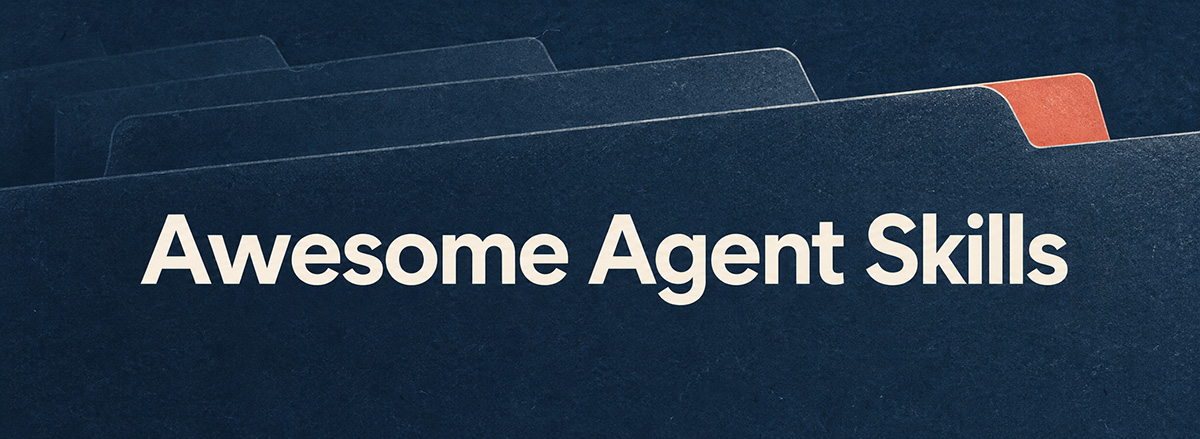
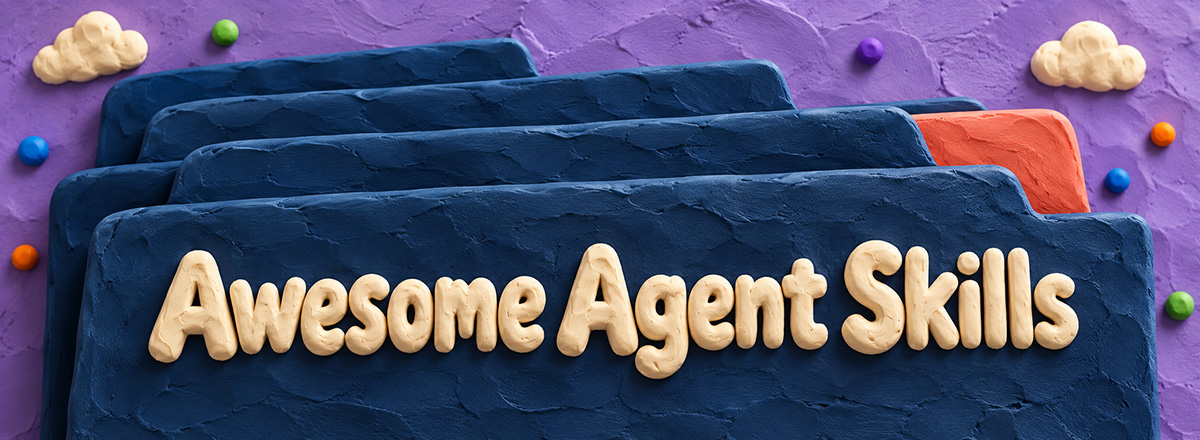
Add Blind as a regular-form platform

diff --git a/skills/awesome-content-campaign/references/platforms.md b/skills/awesome-content-campaign/references/platforms.md
@@ -17,6 +17,7 @@ Every platform on the list is reached as a website in a logged-in browser — `a
 | `linkedin` | linkedin.com | — | optional | horizontal | `genre-micro-post.md` |
 | `reddit` | reddit.com | subreddit | optional | vertical | `genre-community-post.md` |
 | `lemmy` | any Lemmy instance | instance domain + community | optional | vertical | `genre-community-post.md` |
+| `blind` | teamblind.com | channel, picked from the composer's list (the account's followed channels) | optional | horizontal | `genre-community-post.md` |
 | `quora` | quora.com | defaults to a personal post from the home composer (`Post`, audience `Everyone`); ask only when the user names a Space | optional | horizontal | `genre-community-post.md` |
 | `tumblr` | tumblr.com | — | optional | horizontal | `genre-micro-post.md` |
 | `mastodon` | any Mastodon instance | instance domain | optional | horizontal | `genre-micro-post.md` |
@@ -71,6 +72,7 @@ The vertical picture holds the whole source in a band across its middle, so a pl
 | `linkedin` | horizontal | up to 4:5 tall and 3:1 wide, so either file fits; the 16:9 one is the owner's call, since the 4:5 crop of the vertical file shows the blurred fill and pushes the text below the fold | owner's decision, 2026-09 | decided |
 | `reddit` | vertical | no enforced ratio; preview boxes between 4:3 and 16:9 keep the band; guides split | size guides only | low |
 | `lemmy` | vertical | list view shows a near-square generated thumbnail | join-lemmy.org release notes | low |
+| `blind` | horizontal | no published spec; the composer previews an upload as a landscape thumbnail | none | low |
 | `quora` | horizontal | scales to the reading column, no forced crop | size guides only | low |
 | `tumblr` | horizontal | fixed-width dashboard column, tall images shown in full, so the vertical file shows its blurred fill top and bottom | the account's own post, 2026-09 | measured |
 | `mastodon` | horizontal | 16:9 is the preview box many clients and instances still crop to | docs.joinmastodon.org/user/posting | medium |
@@ -153,6 +155,7 @@ Tag count is a platform property, not an author preference. The same tag block t
 | `hashnode`, `medium`, `hackernoon`, `substack` | up to 5 | the platform's own tag/topic field | Medium's publish panel states the five-topic cap in the UI. A body tag line is not the mechanism on any of them. |
 | `peerlist` | none — refused | — | The composer says so in words: *"We don't support hashtags (yet)."* A tag line must be dropped before submitting. |
 | `reddit`, `lemmy`, `hackernews` | none | — | No hashtag system at all. Flair (reddit) and the title do this job; a tag block marks the post as imported spam. |
+| `blind` | 2–4 | body, last line | Clickable: each `#tag` in a body links to `teamblind.com/search/<tag>`, and posts read on 2026-09-30 end on two to four of them. |
 | `quora` | none | — | Topics attach to questions, not to posts, and the composer offers no tag field. A post is filed by the profile or the Space it went to. |
 | `wonderful-dev`, `daily-dev` | none | — | Measured on published posts: body hashtags render as plain text with zero anchors on either platform, so a tag line indexes nothing and reads as an import. |
 | `ko-fi`, `buymeacoffee`, `patreon` | 0–3 | the platform's own field | Each has one and the body has no tag line: ko-fi a comma-separated `Tags` row in the blog editor's sidebar, buymeacoffee a `Categories` block in the right rail, patreon `Add tags` beside the editor. Audience is existing supporters rather than search, so the count stays low. |
@@ -193,6 +196,11 @@ Document posts, a PDF shown as swipeable pages, are LinkedIn's carousel; in Buff
 Title + body, markdown supported, no hashtags. Everything is per-subreddit: rules, flair (sometimes mandatory), automod filters, self-promotion limits (many subs enforce participation ratios). Marketing register is punished by design — posts must lead with value and disclose affiliation. Target detail required: subreddit; fetch and read its rules before writing.
 
 Reddit refuses the agent's fetcher outright, on `www.reddit.com` and `old.reddit.com` alike, including the `about/rules.json` endpoint; retrying the URL or a mirror host does not change that. The rules are read through the user's own logged-in browser (the publisher's browser bridge) or the user confirms them; the run never records "rules read" on the strength of a fetch. Lemmy is the opposite case: its instance API answers plain fetches, and the community search and `community?name=` endpoints return the sidebar, the rules and the subscriber and post counts.
+
+### blind
+Anonymous professional network (Blind, `teamblind.com`): verified employees post under a company label and a username, mostly about careers, pay, layoffs and the tech industry, in public channels. The audience is large and US-centred, and it reads anything that looks like marketing as an intrusion, so the post leads with the useful part and the link is a reference at the end. The composer is a page, not a dialog (`teamblind.com/post/write`): a channel, a title of up to 120 characters, and a plain-text body. Bare URLs become links and `#tags` link to search; no markdown renders. Target detail required: the channel, which the composer chooses from the account's own channel list. Each channel's placeholder states its rule, for example `Information Technology Career`: *"Keep it relevant. If the community flags your posts for going off topic, it will be invisible to the community."*
+
+Posting needs a company the platform has checked. An account whose `Company Name` is empty posts as `New / <username>`, and until Blind finishes reviewing the company it refuses every post with a toast that lasts about two seconds — *"We're reviewing your company information. This may take up to 72 business hours."* — while the page stays on the composer. Check this in Phase 3 rather than at publishing time.
 
 ### lemmy
 Federated link-and-discussion aggregator, reddit-shaped: title + markdown body or a link submission, per-community rules, no hashtags, votes and moderators. The instance is part of the address — `lemmy.world` is the largest but one among many, and a community name means nothing without it. Target detail required: instance domain and community; read that community's sidebar rules for self-promotion limits before writing, exactly as with a subreddit. Small, technically literate audience that reads marketing register as an intrusion.

diff --git a/skills/awesome-content-publisher/references/posting-blind.md b/skills/awesome-content-publisher/references/posting-blind.md
@@ -1,0 +1,23 @@
+# blind
+
+Check: `teamblind.com` signed in shows `Write a Post`, `Notifications` and an `Account Menu` button in the header. The account menu holds `Profile` (`/user/profile`) and `Activity History` (`/user/history`), and the second one is the read-back page. The composer says who is posting under its body: `Posting as <company> / <username>`.
+
+**Posting needs a reviewed company.** An account with an empty `Company Name` posts as `New / <username>`, and while Blind reviews the company it refuses every post. After the confirm step it shows a toast for about two seconds, *"We're reviewing your company information. This may take up to 72 business hours."*, the page stays on the composer with everything still filled in, and `Activity History` keeps reading `No posts... yet!`. Nothing in the network panel says so: the post goes out as a Next.js server action to `POST /post/write` whose request and response are both AES-encrypted, and it returns `200` whether the post was created or refused. So the toast is the only evidence. Poll for `[role=status]`, `[role=alert]` and toast elements every few hundred milliseconds from the moment of the confirm click, because a check two seconds later finds nothing. Treat `New /` in the posting line as the cue to ask in Phase 3, not at publishing time. A refused post is `failed`, retryable once the review is done, and never a reason to resubmit in a loop.
+
+**Ad blockers.** With an ad or script blocker running, Blind's pages carry *"You are seeing this message because ad or script blocking software is interfering with this page"*. The first attempt of the run was made in that state and was checked only after the page had settled, so it is unknown whether the blocker or the late check is why no toast was seen. With the blocker off and polling from the click, the same submit showed the review toast. If that line is on the page, ask the user to allow the site before the first submit.
+
+Compose: `teamblind.com/post/write`. The page opens with the channel picker already showing as a Radix dialog, and the dialog intercepts every click until a channel is picked, so `locator.click` on the title or body times out. The list holds `My Channels`, which includes the company channel when there is one, then `Channels I Follow`. Its search box (`Search for channels`) filters only that list, so a channel the account does not follow cannot be found from here. Pick the target with `locator('[role=dialog] button', { hasText: '<channel>' })`. Then:
+
+- Title: `input[name=title]`, `maxLength` 120, filled with `locator.fill`. It takes the frontmatter `title` as written. Blind titles run in sentence case, so no title-case conversion.
+- Body: `textarea[name=content]`, plain text. Click it, then `keyboard.insertText`, and `\n\n` stays a blank line. The textarea shows the channel's own rule as its placeholder, so read it before filling. No counter shows, and a 12,000-character probe went in with no error. Clear a probe with `locator.fill('')`.
+- `Images`: a button whose label sits in a `span` with extra whitespace, so a `hasText: /^Images$/` locator matches nothing. Find it by `innerText.trim() === 'Images'` and click by coordinate. The click opens a native chooser that the bridge holds as modal state: `page.waitForEvent('filechooser')` inside the same run_code does not receive it. Answer it with `browser_file_upload`.
+  - The upload is a separate server action, and its response, unlike the post's, is readable: `{"success":true,...,"fileName":"https://d2u3dcdbebyaiu.cloudfront.net/uploads/atch_img/..."}`.
+  - Under the thumbnail sits `(Optional) Add image caption`. That caption is shown to readers, and the composer has no alt field, so it stays empty.
+- `Poll` and `Mentions`: never touched.
+- `Hide company name`: the checkbox spends paid credits (`0 credits left`), so it is never touched.
+
+Submit: the header `Post` button opens a second dialog, *"Do you want to post this under <channel>?"*, with its own `Post`, and that one submits.
+
+Read-back: on success the page should leave `/post/write`. Then confirm the post on `/user/history` and in the channel's `Recent` sort, and record the `/post/<slug>-<id>` permalink. Never count the composer's own contents.
+
+Format, from posts read on 2026-09-30: the body renders in a `p.whitespace-pre-wrap`, so line breaks and blank lines show exactly as typed. Markdown is literal text, so headings take the emoji-line form and the `***` line is removed. Bare URLs become anchors with `rel="ugc"`. `#tags` in the body become links to `/search/<tag>`.

diff --git a/skills/awesome-content-publisher/references/form-files.md b/skills/awesome-content-publisher/references/form-files.md
@@ -23,7 +23,7 @@ Every slug in `platforms` becomes one post in the run plan and one entry in the 
 
 The body the file carries is published whole, always. What the publisher adds around it is decided per platform, and each piece is added only if it fits whole inside that platform's own limit, counted the way the platform counts. Nothing is ever cut to make room, not a sentence, not a link, not a tag: a piece that does not fit whole is left off, and the ledger names what was left off and why.
 
-**Title.** Where the platform's composer has a title field, the frontmatter `title` goes there, within that field's own limit. The platform's `posting-<slug>.md` note names the field. At the time of writing that covers every long-form platform (`tumblr`'s title block, `dreamwidth`'s `Subject`, `github-gists`' description among them), plus `reddit`, `lemmy`, `hackernews`, `daily-dev`, `peerlist` (optional), `pinterest`, `imgur`, `flickr` and `tiktok`. Where there is no title field, the title is not used at all: it is never typed as a first line, never bolded above the body. A title over its field's limit is a question for the user, never a silent cut.
+**Title.** Where the platform's composer has a title field, the frontmatter `title` goes there, within that field's own limit. The platform's `posting-<slug>.md` note names the field. At the time of writing that covers every long-form platform (`tumblr`'s title block, `dreamwidth`'s `Subject`, `github-gists`' description among them), plus `reddit`, `lemmy`, `hackernews`, `daily-dev`, `blind`, `peerlist` (optional), `pinterest`, `imgur`, `flickr` and `tiktok`. Where there is no title field, the title is not used at all: it is never typed as a first line, never bolded above the body. A title over its field's limit is a question for the user, never a silent cut.
 
 **Title case.** On `devto`, `hashnode`, `hackernoon`, `medium` and `telegraph` an English title goes into the field in title case, because that is how articles there are titled. On `telegraph` the reason is the page itself rather than a feed: the title is the only headline the page has, set large above the byline, and the same article carries a title-cased headline on the long-form platforms beside it. HackerNoon's own writing guide asks for it in its pre-submission checklist, and in the feeds read on 2026-09-27 title case held 88% of the classifiable titles on Medium, 87% on Hashnode and about two thirds on dev.to, with sentence case a minority on all three. The conversion only ever raises a letter. Every word begins with a capital except articles, coordinating conjunctions and prepositions of up to three letters (`a`, `an`, `the`, `and`, `but`, `or`, `nor`, `for`, `so`, `yet`, `as`, `at`, `by`, `in`, `of`, `off`, `on`, `per`, `to`, `up`, `via`, `vs`), and those too are capitalized as the first word, the last word, or the first word after a colon or a dash. Each part of a hyphenated compound follows the same rule. A word that already holds a capital, a digit or a dot is left exactly as written, and so is a name its owner spells in lowercase, such as a command, a package or a product, which the body shows in a code span or in that spelling. A title already in title case passes unchanged, a title in any other language is never converted, and the field limit and the read-back are both checked against the converted string. The conversion covers that one field: the alt text, the body and every other platform keep the frontmatter `title` as written. Substack, daily.dev and Hacker News are left alone, since their titles run mostly in sentence case or are expected to match the original.
 

diff --git a/skills/awesome-content-repurpose/references/forms.md b/skills/awesome-content-repurpose/references/forms.md
@@ -7,7 +7,7 @@ A run writes three files and no others. Each one is a form that serves a group o
 | Form | File | Default platforms | Ceiling | Carries | Never carries |
 | --- | --- | --- | --- | --- | --- |
 | long | `3-long.md` | `blogger`, `buymeacoffee`, `deviantart`, `devto`, `dreamwidth`, `github-gists`, `hackernoon`, `hashnode`, `ko-fi`, `livejournal`, `mataroa`, `medium`, `patreon`, `substack`, `telegraph`, `teletype`, `tumblr` | section 3 | `##` and `###` headings, fenced `text` blocks, lists, a labelled reference list, the footer | an H1, a tag line, a markdown table |
-| regular | `2-regular.md` | `bastyon`, `daily-dev`, `facebook-wall`, `instagram`, `linkedin`, `mewe`, `minds`, `pixelfed`, `quora`, `vk-wall`, `wonderful-dev`, `youtube` | 2000 characters, the whole body counted, link line and footer included | `##` headings, short lists, one bare link line, the footer | an H1, a fenced block, a table, a command that contains a URL, a tag line |
+| regular | `2-regular.md` | `bastyon`, `blind`, `daily-dev`, `facebook-wall`, `instagram`, `linkedin`, `mewe`, `minds`, `pixelfed`, `quora`, `vk-wall`, `wonderful-dev`, `youtube` | 2000 characters, the whole body counted, link line and footer included | `##` headings, short lists, one bare link line, the footer | an H1, a fenced block, a table, a command that contains a URL, a tag line |
 | short | `1-short.md` | `bluesky`, `flickr`, `flipboard`, `imgur`, `mastodon`, `peerlist`, `pinterest`, `threads`, `tiktok`, `truthsocial`, `x` | 280, counted the way `x` counts | complete plain sentences, at most one emoji | a heading, a list, a fence, markdown emphasis, a URL, a tag, the footer |
 
 The slugs are the canonical ones in `awesome-content-campaign/references/platforms.md`. The youtube channel post carries the `youtube` slug.
@@ -44,6 +44,7 @@ These are the platform limits the defaults rest on. Each row names where the num
 | `youtube` | 10,000 | characters | measured |
 | `vk-wall` | about 16,000 | characters | secondary |
 | `facebook-wall` | 63,206 | characters | secondary |
+| `blind` | 120 title | characters; the body textarea took 12,000 characters without a counter or an error, and no server cap is known | measured |
 | `mewe`, `minds`, `daily-dev`, `quora` | none published | | |
 | `tumblr` | 4096 per text block | a longer paragraph is split into blocks automatically | documented |
 | `deviantart` | 65,535 | characters, embedded images included | secondary |

diff --git a/skills/awesome-content-publisher/SKILL.md b/skills/awesome-content-publisher/SKILL.md
@@ -117,7 +117,7 @@ This is where every question the run could otherwise raise later is found and as
 
 Every one of these produced a mid-run stop in an earlier run:
 
-- **Target the platform needs.** Where the canonical table's Target column names one and the post file does not (`vk-wall` own wall or a community, `flipboard` magazine, `pinterest` board, `lemmy` community, `reddit` subreddit, `hashnode`/`medium` publication), read the choices during the Phase 3 login visit (the magazines the account owns, its boards, its communities with posting rights) and ask which, offering the existing ones as options.
+- **Target the platform needs.** Where the canonical table's Target column names one and the post file does not (`vk-wall` own wall or a community, `flipboard` magazine, `pinterest` board, `lemmy` community, `reddit` subreddit, `blind` channel, `hashnode`/`medium` publication), read the choices during the Phase 3 login visit (the magazines the account owns, its boards, its communities with posting rights) and ask which, offering the existing ones as options.
 - **Visibility and audience.** Anything the platform sets per post and the post file does not declare: `patreon` public or members, `substack` web-only or email send, a group versus a timeline. Ask; never default at the composer.
 - **Byline the platform shows.** `telegraph` has no account, so its author line is whatever the run types into the page's author field, and it is published under the title for every reader. When `telegraph` is in the run, ask what goes there: the name to show, and whether it links anywhere (the field takes an address for the name). Never fill it from a profile name, a handle or a guess, and never leave it empty without the user saying so.
 - **Title fit.** Measure the title each platform will receive (after title case where that applies) against the field's own cap from the platform's notes: `ko-fi` blog 70, `tiktok` title 90, `livejournal` 100, `pinterest` 100, `imgur`, `flickr`, `peerlist`. Over the cap → offer a cut at a word boundary and a shorter version built from the author's own words, and record the choice.

diff --git a/skills/awesome-content-campaign/references/genre-community-post.md b/skills/awesome-content-campaign/references/genre-community-post.md
@@ -10,7 +10,7 @@ Reader state. A regular of the room, reading with the room's own memory: they ha
 
 ## Before writing — non-negotiable
 
-Fetch and read the target's own rules (subreddit sidebar and wiki, community sidebar on `lemmy`, the group's pinned rules, the server's `#rules` channel, the site guidelines for `hackernews`), plus the last screen of what natives post there. A community that bans self-promotion, requires a participation ratio, mandates flair, or confines promo to one channel is a hard constraint: report it to the user and offer a different target rather than writing a post moderators will remove. `hackernews` additionally has its own form for a self-authored product (`Show HN:`), with its own expectations — a working thing and the author present in the comments.
+Fetch and read the target's own rules (subreddit sidebar and wiki, community sidebar on `lemmy`, the channel's own placeholder text on `blind`, the group's pinned rules, the server's `#rules` channel, the site guidelines for `hackernews`), plus the last screen of what natives post there. A community that bans self-promotion, requires a participation ratio, mandates flair, or confines promo to one channel is a hard constraint: report it to the user and offer a different target rather than writing a post moderators will remove. `hackernews` additionally has its own form for a self-authored product (`Show HN:`), with its own expectations — a working thing and the author present in the comments.
 
 Two of the rows that name this file default to the author's own surface rather than a room somebody else moderates: `daily-dev`'s direct post and `quora`'s personal post. There the rules to read are the platform's own guidelines, and the genre still holds, because the reader arrives from a feed or a search result rather than from following the author, and judges a marketing cadence exactly as a community would. Only a named squad or a named Space puts a moderator between the post and the page.
 

diff --git a/skills/awesome-content-publisher/references/platform-posting.md b/skills/awesome-content-publisher/references/platform-posting.md
@@ -13,6 +13,6 @@ Shared rules for every platform:
 
 Each platform's own notes are a file of their own, `posting-<slug>.md` in this folder: read the slugs the run actually posts to, not the set. The slugs with notes here, in the order they were added:
 
-`facebook-wall`, `facebook-page`, `linkedin`, `reddit`, `lemmy`, `quora`, `tumblr`, `mastodon`, `bluesky`, `x`, `truthsocial`, `wonderful-dev`, `hackernoon`, `hashnode`, `devto`, `hackernews`, `patreon`, `ko-fi`, `bastyon`, `buymeacoffee`, `instagram`, `pixelfed`, `pinterest`, `vk-wall`, `threads`, `telegram`, `peerlist`, `daily-dev`, `minds`, `medium`, `telegraph`, `teletype`, `substack`, `blogger`, `flipboard`, `livejournal`, `dreamwidth`, `mewe`, `youtube`, `tiktok`, `imgur`, `flickr`, `mataroa`, `deviantart`, `github-gists`.
+`facebook-wall`, `facebook-page`, `linkedin`, `reddit`, `lemmy`, `quora`, `tumblr`, `mastodon`, `bluesky`, `x`, `truthsocial`, `wonderful-dev`, `hackernoon`, `hashnode`, `devto`, `hackernews`, `patreon`, `ko-fi`, `bastyon`, `buymeacoffee`, `instagram`, `pixelfed`, `pinterest`, `vk-wall`, `threads`, `telegram`, `peerlist`, `daily-dev`, `minds`, `medium`, `telegraph`, `teletype`, `substack`, `blogger`, `flipboard`, `livejournal`, `dreamwidth`, `mewe`, `youtube`, `tiktok`, `imgur`, `flickr`, `mataroa`, `deviantart`, `github-gists`, `blind`.
 
 A slug the post set names with no file here is a slug this skill has no observed flow for. Say so in the report and drive it from the shared rules above plus an accessibility snapshot, never from another platform's notes.

diff --git a/skills/awesome-content-campaign/references/best-time-to-post.md b/skills/awesome-content-campaign/references/best-time-to-post.md
@@ -25,6 +25,7 @@ One window is never a schedule. The campaign spreads slots across the window on 
 | `pinterest` | 13:00-15:00, second peak 20:00-23:00 | weekdays | Measured, 2026 platform guides |
 | `telegram` | 13:00-16:00 for a work audience, 18:00-22:00 for a general one | Mon-Fri | Measured, 2026 channel datasets |
 | `reddit`, `lemmy` | 14:00-17:00 **UTC** | Tue-Thu | Measured, a 2026 analysis of 12 developer-tool subreddits; the window catches the European afternoon and the start of the US East Coast day |
+| `blind` | 15:00-19:00 **UTC** | Tue-Thu | Class default, US workplace community: 08:00-12:00 US Pacific, the start of the West Coast working day, when the audience reads on the job |
 | `hackernews` | 14:00-17:00 **UTC** | Tue-Thu | Measured, the same window in hours: 09:00-12:00 US Eastern, which is when the audience is awake and the author can answer comments |
 | `mastodon`, `pixelfed` | 09:00-12:00, second peak 18:00-21:00 | Tue-Thu | Class default, fediverse: no ranking algorithm, so a post reaches the followers who are online at that minute and the window is simply when they are |
 | `minds`, `bastyon`, `truthsocial`, `mewe`, `vk-wall`, `flipboard` | 09:00-12:00, second peak 18:00-21:00 | Tue-Thu | Class default, general feed |

diff --git a/skills/awesome-content-publisher/references/post-formatting.md b/skills/awesome-content-publisher/references/post-formatting.md
@@ -10,7 +10,7 @@ Three classes, and the class decides what reaches the editor:
 
 | Class | Platforms observed | What goes in |
 | --- | --- | --- |
-| Plain text | linkedin, facebook-wall, threads, instagram, pixelfed, x, mastodon, bluesky, truthsocial, peerlist, minds, bastyon, pinterest, tumblr, quora | markdown stripped: fences and inline backticks removed, `#` heading markers removed, `**bold**` unwrapped, `[t](u)` flattened |
+| Plain text | linkedin, facebook-wall, threads, instagram, pixelfed, x, mastodon, bluesky, truthsocial, peerlist, minds, bastyon, pinterest, tumblr, quora, blind | markdown stripped: fences and inline backticks removed, `#` heading markers removed, `**bold**` unwrapped, `[t](u)` flattened |
 | Markdown-native | devto, hashnode (via paste), lemmy | the source verbatim |
 | Rich editor | medium, substack, buymeacoffee, daily-dev, ko-fi | markdown converted to HTML and delivered as a paste event |
 | Toolbar-only | patreon | plain text, then each heading and emphasis applied by selecting the range and picking the style from the floating toolbar |

diff --git a/docs/content-skills-guide.ru.md b/docs/content-skills-guide.ru.md
@@ -410,7 +410,7 @@ status: draft
 
 | Тип композера | Площадки | На пост |
 | --- | --- | --- |
-| Простое текстовое поле | x, bluesky, threads, mastodon, truthsocial, minds, peerlist, lemmy, quora, bastyon | 2–6 мин |
+| Простое текстовое поле | x, bluesky, threads, mastodon, truthsocial, minds, peerlist, lemmy, quora, bastyon, blind | 2–6 мин |
 | Поле с Markdown | devto, wonderful-dev | 2–4 мин |
 | Подпись с обязательной картинкой | instagram, pixelfed, pinterest | 4–8 мин |
 | Визуальный редактор, короткий пост | tumblr, daily-dev, patreon, ko-fi, buymeacoffee | 3–9 мин |

diff --git a/README.md b/README.md
@@ -251,7 +251,7 @@ Measured from the publisher's own ledger timestamps on a 25-platform run. The fi
 
 | Composer type | Platforms | Per post |
 | --- | --- | --- |
-| Plain text box | x, bluesky, threads, mastodon, truthsocial, minds, peerlist, lemmy, quora, bastyon | 2–6 min |
+| Plain text box | x, bluesky, threads, mastodon, truthsocial, minds, peerlist, lemmy, quora, bastyon, blind | 2–6 min |
 | Markdown field | devto, wonderful-dev | 2–4 min |
 | Caption with a required image | instagram, pixelfed, pinterest | 4–8 min |
 | Rich editor, short post | tumblr, daily-dev, patreon, ko-fi, buymeacoffee | 3–9 min |

diff --git a/docs/content-skills-guide.md b/docs/content-skills-guide.md
@@ -410,7 +410,7 @@ Measured from the publisher's own ledger timestamps on a 25-platform run. The fi
 
 | Composer type | Platforms | Per post |
 | --- | --- | --- |
-| Plain text box | x, bluesky, threads, mastodon, truthsocial, minds, peerlist, lemmy, quora, bastyon | 2–6 min |
+| Plain text box | x, bluesky, threads, mastodon, truthsocial, minds, peerlist, lemmy, quora, bastyon, blind | 2–6 min |
 | Markdown field | devto, wonderful-dev | 2–4 min |
 | Caption with a required image | instagram, pixelfed, pinterest | 4–8 min |
 | Rich editor, short post | tumblr, daily-dev, patreon, ko-fi, buymeacoffee | 3–9 min |
